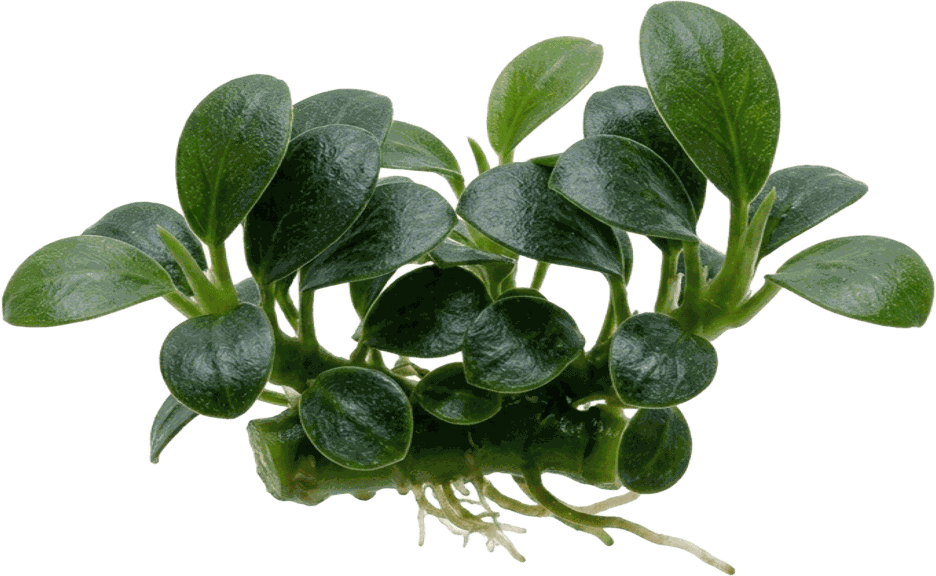
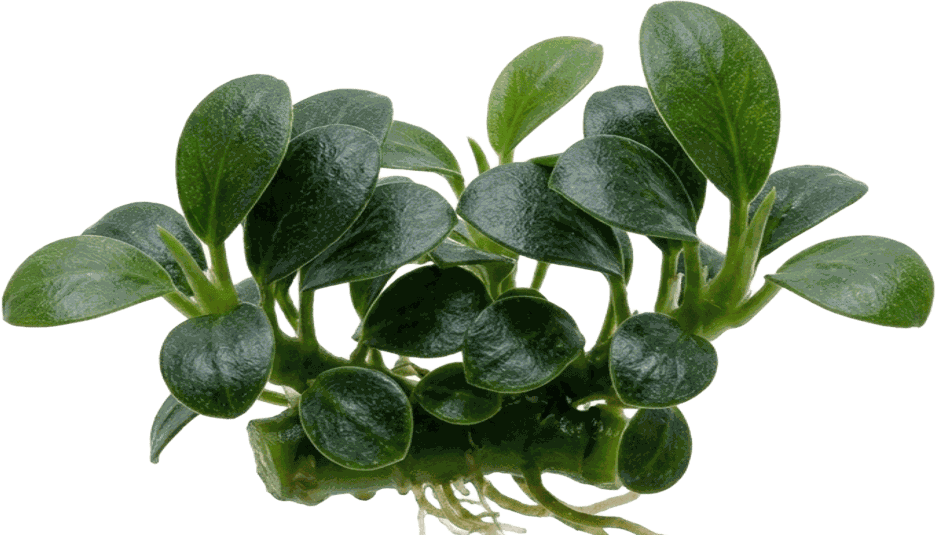
0.9.25-beta: imágenes sin manchas de color (tronco oscuro, rocas planas, musgos, epífitas), Anubias y Bucephalandra morada sin raíces sueltas, tamaño mínimo 10 %

diff --git a/app/index.html b/app/index.html
@@ -348,7 +348,7 @@
         <div id="di-cambiar-lista" class="pila" style="gap: 8px"></div>
       </div>
       <label class="pila" style="gap: 4px"><span class="sec">Tamaño · <span id="di-tamano-v" class="num">100 %</span></span>
-        <input id="di-tamano" type="range" min="40" max="200" step="5" value="100" aria-label="Tamaño"></label>
+        <input id="di-tamano" type="range" min="10" max="200" step="5" value="100" aria-label="Tamaño"></label>
       <label id="di-copias-fila" class="pila" style="gap: 4px"><span class="sec">Plantas en la mata · <span id="di-copias-v" class="num">3</span></span>
         <input id="di-copias" type="range" min="1" max="8" step="1" value="3" aria-label="Plantas en la mata"></label>
       <div id="di-unir-fila" class="pila" style="gap: 8px" hidden>

diff --git a/app/js/app.js b/app/js/app.js
@@ -2,7 +2,7 @@ import { crearBluetooth } from './ble.js';
 import { iniciarAcuario } from './acuario.js';
 import { CANALES, MANUAL, cmdColor, cmdHorario, guardarHorario, ponerHora, dentroDeHorario, encenderSiempre, pasosApagado, horasCompletas } from './protocolo.js';
 
-export const VERSION = '0.9.24-beta'; // sube el último número en cada publicación; 1.0.0 = lista para la tienda
+export const VERSION = '0.9.25-beta'; // sube el último número en cada publicación; 1.0.0 = lista para la tienda
 const $ = id => document.getElementById(id);
 const COLORES_CSS = ['var(--rojo)', 'var(--verde)', 'var(--azul)', 'var(--uv)'];
 const RAMPAS = [0, 30, 60, 90, 120, 150];
